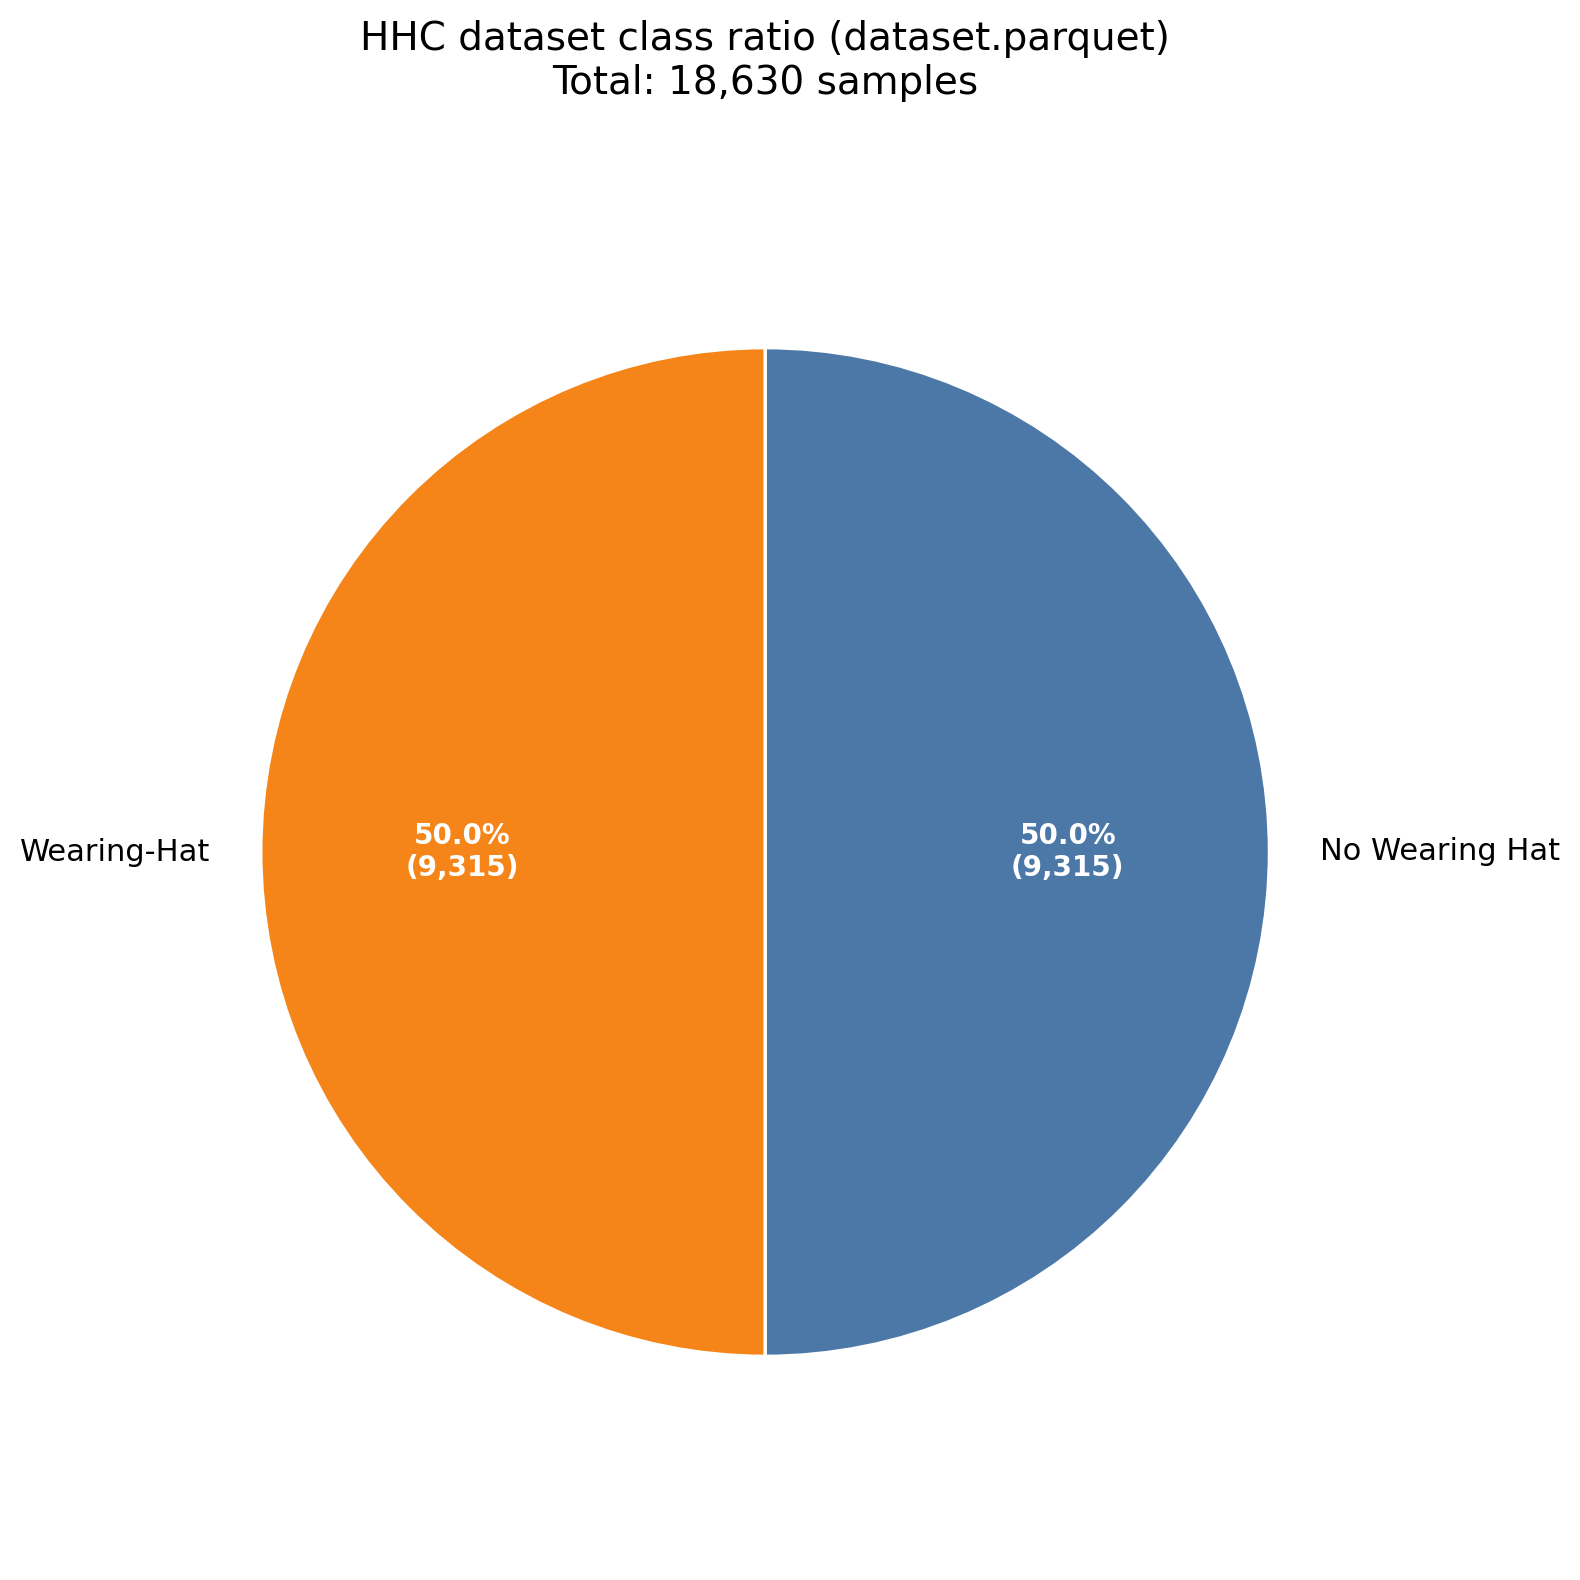
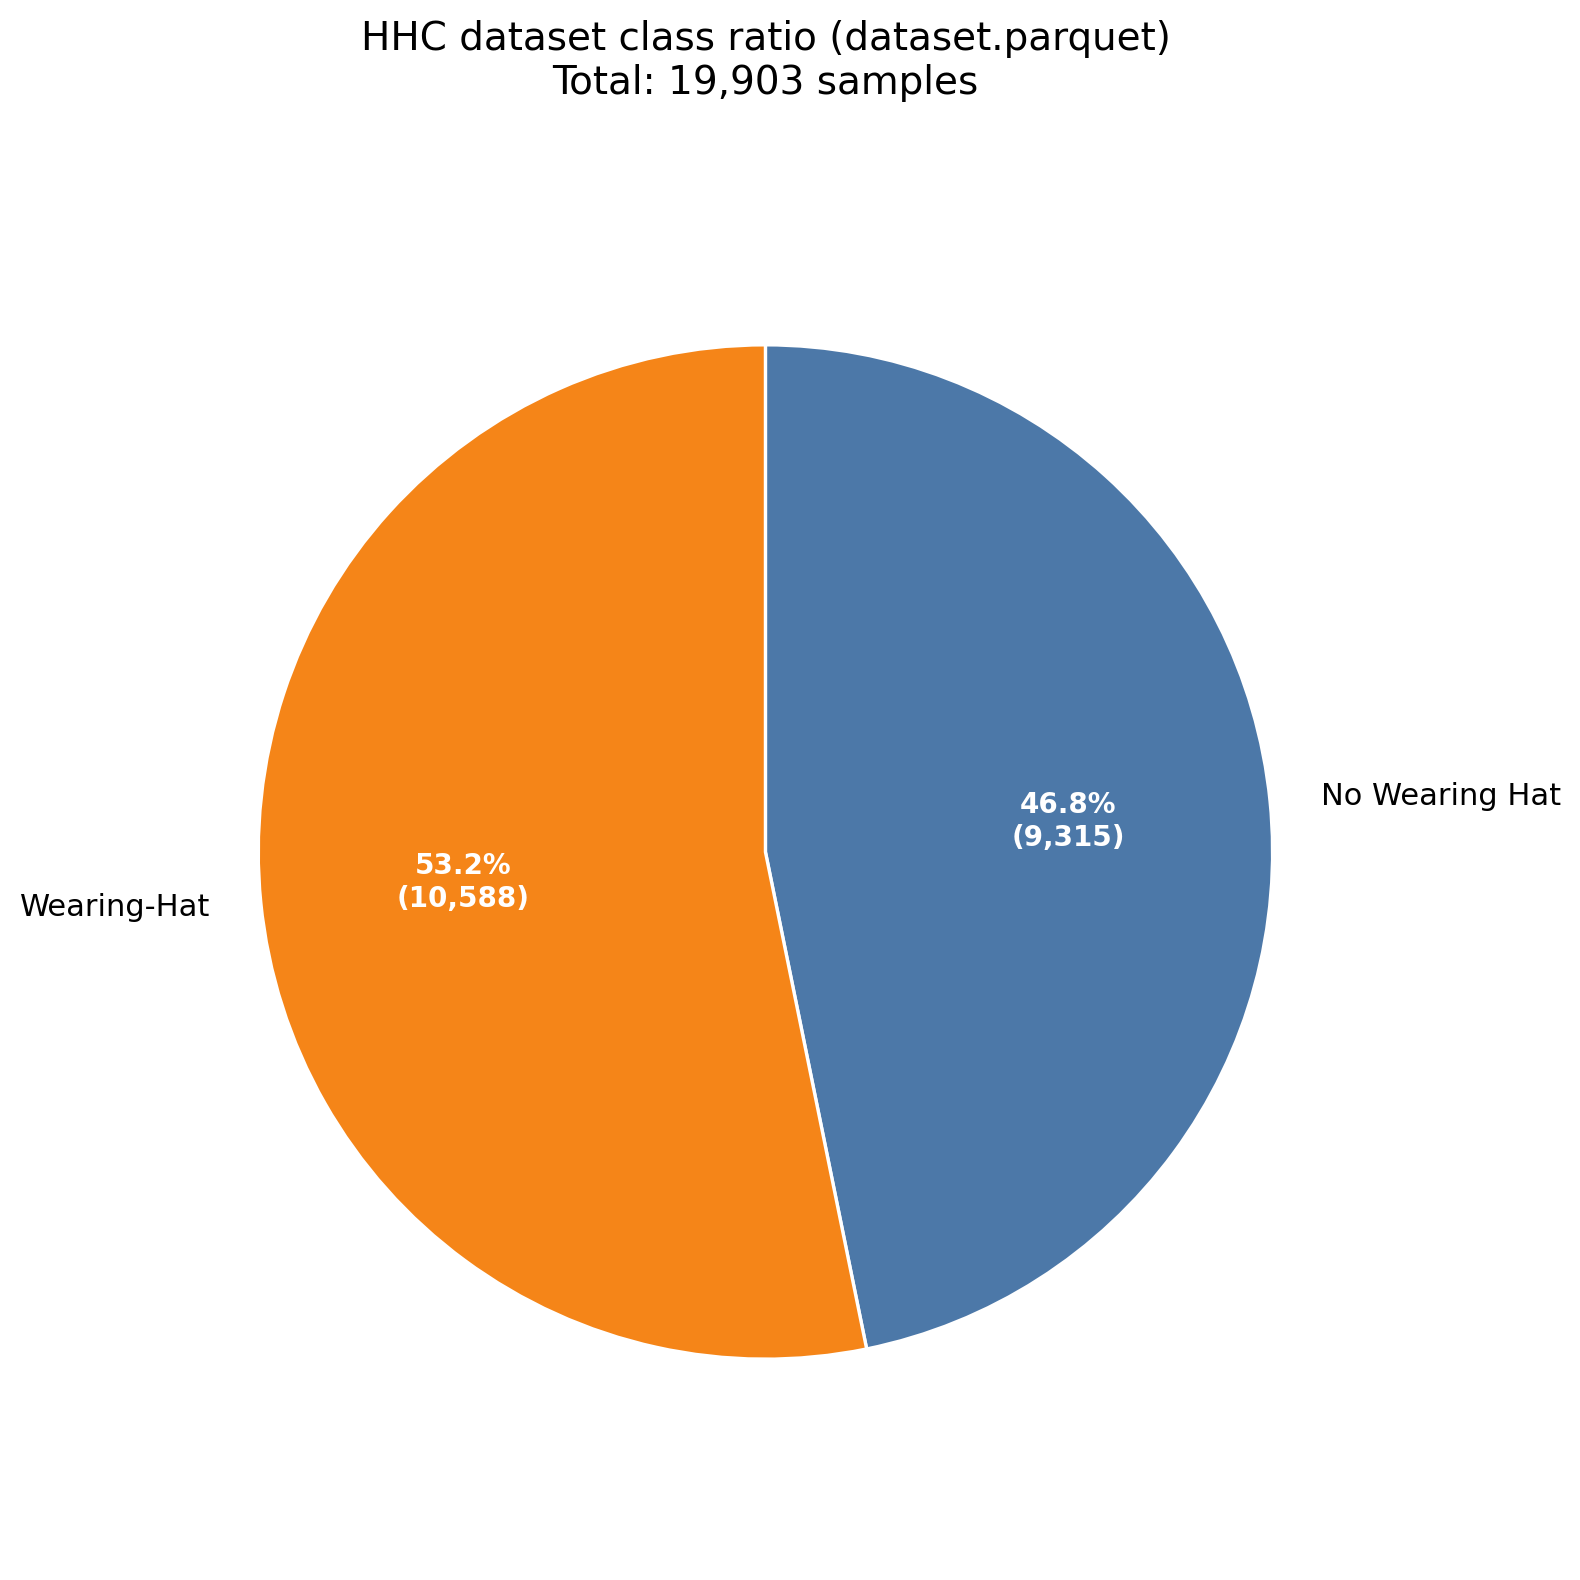
update

diff --git a/01_build_hat_parquet.py b/01_build_hat_parquet.py
@@ -76,7 +76,7 @@ def parse_args() -> argparse.Namespace:
     parser.add_argument(
         "--image-size",
         type=parse_image_size,
-        default=parse_image_size("32x32"),
+        default=parse_image_size("48x48"),
         metavar="HEIGHTxWIDTH",
         help="Resize images before embedding into parquet using HEIGHTxWIDTH format (default: 32x32).",
     )
